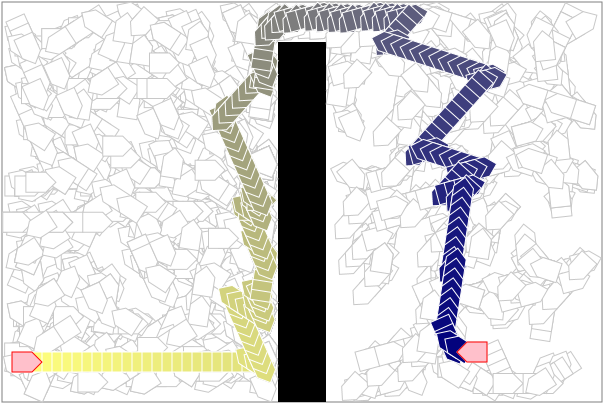
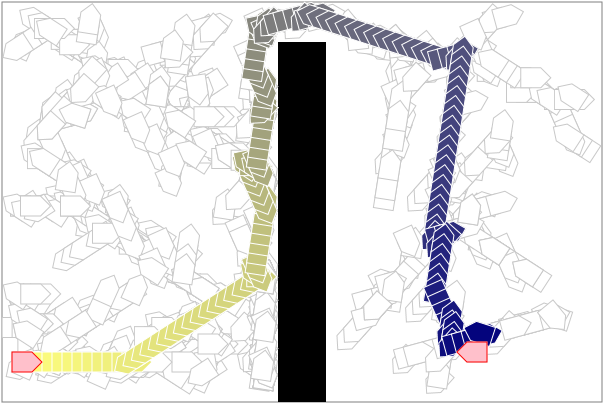
just finish bi-direction

Changed region(s): [[0.0, 0.0, 1.0, 1.0], [0.9834, 0.0297, 1.0, 0.0594], [0.5364, 0.4158, 0.5662, 0.4455]]

diff --git a/hw3/assignment_robots/src/assignment_robots/Bi_RRT.java b/hw3/assignment_robots/src/assignment_robots/Bi_RRT.java
@@ -6,24 +6,30 @@ import assignment_robots.RoadMapProblem.AdjacentCfg;
 import assignment_robots.SearchProblem.SearchNode;
 import assignment_robots.InformedSearchProblem;
 
-public class RapidlyExpTree extends InformedSearchProblem {
+public class Bi_RRT extends InformedSearchProblem {
+	
+	static boolean TreeA = true, TreeB = false;
 
 	CarRobot startCar, goalCar;
-	HashSet<CarRobot> connected = new HashSet<>(); // world sampling
-	HashMap<CarRobot, HashSet<AdjacentCfg>> RRTree = new HashMap<>(); // RRTree,
-																		// a
-	// graph
+	HashSet<CarRobot> connectedA = new HashSet<>(),
+			connectedB = new HashSet<>(); // world sampling
+	HashMap<CarRobot, HashSet<AdjacentCfg>> RRTreeA = new HashMap<>(),
+			RRTreeB = new HashMap<>(); // RRTree,
+	HashMap<CarRobot, AdjacentCfg> TreeA2TreeB = new HashMap<>();
 	World map;
+	int num4grow;
 
-	public RapidlyExpTree(World m, CarState config1, CarState config2,
-			int density) {
+	public Bi_RRT(World m, CarState config1, CarState config2, int density) {
 		map = m;
+		num4grow = density;
 		startCar = new CarRobot(config1);
 		goalCar = new CarRobot(config2);
-		startNode = new RRTnode(startCar, 0);
-		RRTree.put(startCar, new HashSet<AdjacentCfg>());
-		connected.add(startCar);
-		growTree2Goal(density);
+		startNode = new BiRRTnode(startCar, 0, TreeA);
+		RRTreeA.put(startCar, new HashSet<AdjacentCfg>());
+		RRTreeB.put(goalCar, new HashSet<AdjacentCfg>());
+		connectedA.add(startCar);
+		connectedB.add(startCar);
+		biGrowTree2Goal();
 
 		// TODO Auto-generated constructor stub
 	}
@@ -67,7 +73,8 @@ public class RapidlyExpTree extends InformedSearchProblem {
 		return new CarState(cfg);
 	}
 
-	private CarRobot findNearestInTree(CarRobot newRandCar) {
+	private CarRobot findNearestInTree(CarRobot newRandCar, boolean tree) {
+		HashSet<CarRobot> connected = tree == TreeA ? connectedA : connectedB;
 		Double minDis = Double.MAX_VALUE;
 		CarRobot nearest = null;
 		for (CarRobot cr : connected) {
@@ -100,49 +107,89 @@ public class RapidlyExpTree extends InformedSearchProblem {
 		return newAdded;
 	}
 
-	private void addNewNode2Tree(CarRobot newNode, CarRobot parentNode) {
+	private void addNewNode2Tree(CarRobot newNode, CarRobot parentNode, boolean tree) {
+		HashSet<CarRobot> connected = tree ? connectedA : connectedB;
+		HashMap<CarRobot, HashSet<AdjacentCfg>> RRTree = tree ? RRTreeA : RRTreeB;
 		connected.add(newNode);
-		RRTree.get(parentNode).add(new AdjacentCfg(newNode, 1));
-		RRTree.put(newNode, new HashSet<AdjacentCfg>());
+		if(tree) {
+			// in treeA, parent points to its children, 1 to n
+			RRTree.get(parentNode).add(new AdjacentCfg(newNode, 1));
+			RRTree.put(newNode, new HashSet<AdjacentCfg>());
+		}else {
+			// in treeB, the child points to their parent, 1 to 1
+			RRTree.put(newNode, new HashSet<AdjacentCfg>());
+			RRTree.get(newNode).add(new AdjacentCfg(parentNode, 1));
+		}
+	}
+	
+	boolean growTheOther(boolean tree, CarRobot target) {
+		HashSet<CarRobot> connected = tree ? connectedA : connectedB;
+		CarRobot nearest = findNearestInTree(target, tree);
+		CarRobot newAdded = expandTree(target, nearest);
+		if (!connected.contains(newAdded)) {
+			addNewNode2Tree(newAdded, nearest, tree);
+			// terminate the iteration if reaching the goal
+			if (newAdded.getDistance(target) < 20) {
+				if(tree)
+					TreeA2TreeB.put(newAdded, new AdjacentCfg(target, 1));
+				else
+					TreeA2TreeB.put(target, new AdjacentCfg(newAdded, 1));
+				return true;
+			}
+			num4grow--;
+		}
+		return false;
 	}
 
-	public void growTree2Goal(int num4grow) {
+	public void biGrowTree2Goal() {
+		boolean tree = TreeA;
 		while (num4grow > 0) {
 			// generate new random car
 			CarRobot newRandCar = new CarRobot(getRandCfg(map));
+			// initiate current tree set
+			HashSet<CarRobot> connected = tree ? connectedA : connectedB,
+									theOther = tree ? connectedA : connectedB;
 			// if the car is valid
 			if (!map.carCollision(newRandCar)) {
-				CarRobot nearest = findNearestInTree(newRandCar);
+				CarRobot nearest = findNearestInTree(newRandCar, tree);
 				CarRobot newAdded = expandTree(newRandCar, nearest);
-				if(!connected.contains(newAdded)) {
-					addNewNode2Tree(newAdded, nearest);
-					// terminate the iteration if reaching the goal
-					if (newAdded.getDistance(goalCar) < 20) {
-						addNewNode2Tree(goalCar, newAdded);
-						break;
-					}
+				if (!connected.contains(newAdded)) {
+					addNewNode2Tree(newAdded, nearest, tree);
 					num4grow--;
+					// terminate the iteration if two tree connected
+					if (growTheOther(!tree, newAdded)) break;
 				}
 			}
+			// swap if current tree size exceeds the other
+			if(connected.size() > theOther.size()) tree = !tree;
 		}
 	}
 
 	// /////////////////////////////////////////////////////////////////////
 
-	public class RRTnode implements SearchNode {
+	public class BiRRTnode implements SearchNode {
 		public CarRobot car;
 		private double cost;
+		private boolean tree;
 
 		// construct the connected graph
-		public RRTnode(CarRobot inAr, double c) {
+		public BiRRTnode(CarRobot inAr, double c, boolean t) {
 			car = inAr;
 			cost = c;
+			tree = t;
 		}
 
 		public ArrayList<SearchNode> getSuccessors() {
+			HashMap<CarRobot, HashSet<AdjacentCfg>> RRTree = tree ? RRTreeA : RRTreeB;
 			ArrayList<SearchNode> successors = new ArrayList<SearchNode>();
 			for (AdjacentCfg adj : RRTree.get(car)) {
-				successors.add(new RRTnode(adj.ar, adj.dis + cost));
+				if(TreeA2TreeB.containsKey(adj)) {
+					successors.clear();
+					successors.add(new BiRRTnode(adj.ar, adj.dis + cost, !tree));
+					return successors;
+				}else {
+					successors.add(new BiRRTnode(adj.ar, adj.dis + cost, tree));
+				}
 			}
 			return successors;
 		}
@@ -150,7 +197,7 @@ public class RapidlyExpTree extends InformedSearchProblem {
 		// override functions
 		@Override
 		public boolean equals(Object other) {
-			return car == ((RRTnode) other).car;
+			return car == ((BiRRTnode) other).car;
 		}
 
 		@Override
@@ -177,8 +224,12 @@ public class RapidlyExpTree extends InformedSearchProblem {
 
 		@Override
 		public double heuristic() {
-			// TODO Auto-generated method stub
-			return car.getDistance(goalCar);
+			// if in the treeB, we should simply go straight to the goal
+			// so I set priority as high as possible
+			if(tree)
+				return car.getDistance(goalCar);
+			else
+				return -cost;
 		}
 
 		@Override

diff --git a/hw3/junjie-guan-ai-hw3.tex b/hw3/junjie-guan-ai-hw3.tex
@@ -273,14 +273,16 @@ public void growTree2Goal(int num4grow) {
     // if the car is valid
     if (!map.carCollision(newRandCar)) {
       CarRobot nearest = findNearestInTree(newRandCar);
-      CarRobot newNearest = expandTree(newRandCar, nearest);
-      addNewNode2Tree(newNearest, nearest);
-      // terminate the iteration if reaching the goal
-      if (newNearest.getDistance(goalCar) < 20) {
-        addNewNode2Tree(goalCar, newNearest);
-        break;
+      CarRobot newAdded = expandTree(newRandCar, nearest);
+      if(!connected.contains(newAdded)) {
+        addNewNode2Tree(newAdded, nearest);
+        // terminate the iteration if reaching the goal
+        if (newAdded.getDistance(goalCar) < 20) {
+          addNewNode2Tree(goalCar, newAdded);
+          break;
+        }
+        num4grow--;
       }
-      num4grow--;
     }
   }
 }
@@ -310,7 +312,7 @@ private CarRobot expandTree(CarRobot newRandCar, CarRobot nearest) {
   // initiate the auxiliary object
   Double minDis = Double.MAX_VALUE;
   SteeredCar sc = new SteeredCar();
-  CarRobot newNearest = null, newCarRobot = new CarRobot();
+  CarRobot newAdded = null, newCarRobot = new CarRobot();
   // try to expand to 6 different directions
   for (int i = 0; i <= 5; i++) {
     newCarRobot = new CarRobot(sc.move(nearest.getCarState(), i, 1.));
@@ -319,11 +321,11 @@ private CarRobot expandTree(CarRobot newRandCar, CarRobot nearest) {
       double dis = newCarRobot.getDistance(newRandCar);
       if (minDis > dis) {
         minDis = dis;
-        newNearest = newCarRobot;
+        newAdded = newCarRobot;
       }
     }
   }
-  return newNearest;
+  return newAdded;
 }
 
 \end{lstlisting}

diff --git a/hw3/assignment_robots/src/assignment_robots/CarDriver.java b/hw3/assignment_robots/src/assignment_robots/CarDriver.java
@@ -189,11 +189,24 @@ public class CarDriver extends Application {
 //	    System.out.println(collided);
 //		plotCarRobot(g, car, state1);
 		
-		RapidlyExpTree rrt = new RapidlyExpTree(w, car.getCarState(), car2.getCarState(), 15000);
+//		RapidlyExpTree rrt = new RapidlyExpTree(w, car.getCarState(), car2.getCarState(), 15000);
+		Bi_RRT rrt = new Bi_RRT(w, car.getCarState(), car2.getCarState(), 15000);
 		List<SearchNode> solutionPath = null;
 		solutionPath = rrt.astarSearch();
 		
-		for (Iterator<CarRobot> carit = rrt.RRTree.keySet().iterator(); carit.hasNext();) {
+//		for (Iterator<CarRobot> carit = rrt.RRTree.keySet().iterator(); carit.hasNext();) {
+//			// System.out.println(ar);
+//			CarRobot cr = carit.next();
+//			plotCarRobotTree(g, cr.getCarState());
+//		}
+		
+		for (Iterator<CarRobot> carit = rrt.RRTreeA.keySet().iterator(); carit.hasNext();) {
+			// System.out.println(ar);
+			CarRobot cr = carit.next();
+			plotCarRobotTree(g, cr.getCarState());
+		}
+		
+		for (Iterator<CarRobot> carit = rrt.RRTreeB.keySet().iterator(); carit.hasNext();) {
 			// System.out.println(ar);
 			CarRobot cr = carit.next();
 			plotCarRobotTree(g, cr.getCarState());
@@ -205,7 +218,8 @@ public class CarDriver extends Application {
 			System.out.println("path length: " + solutionPath.size());
 			int i = 0;
 			for (SearchNode sn : solutionPath) {
-				RRTnode thissn = (RRTnode) sn;
+//				RRTnode thissn = (RRTnode) sn;
+				BiRRTnode thissn = (BiRRTnode) sn;
 				//System.out.println("path: " + thissn.arm);
 				plotCarRobotPath(g, thissn.car.getCarState(), solutionPath.size(), i++);
 			}
